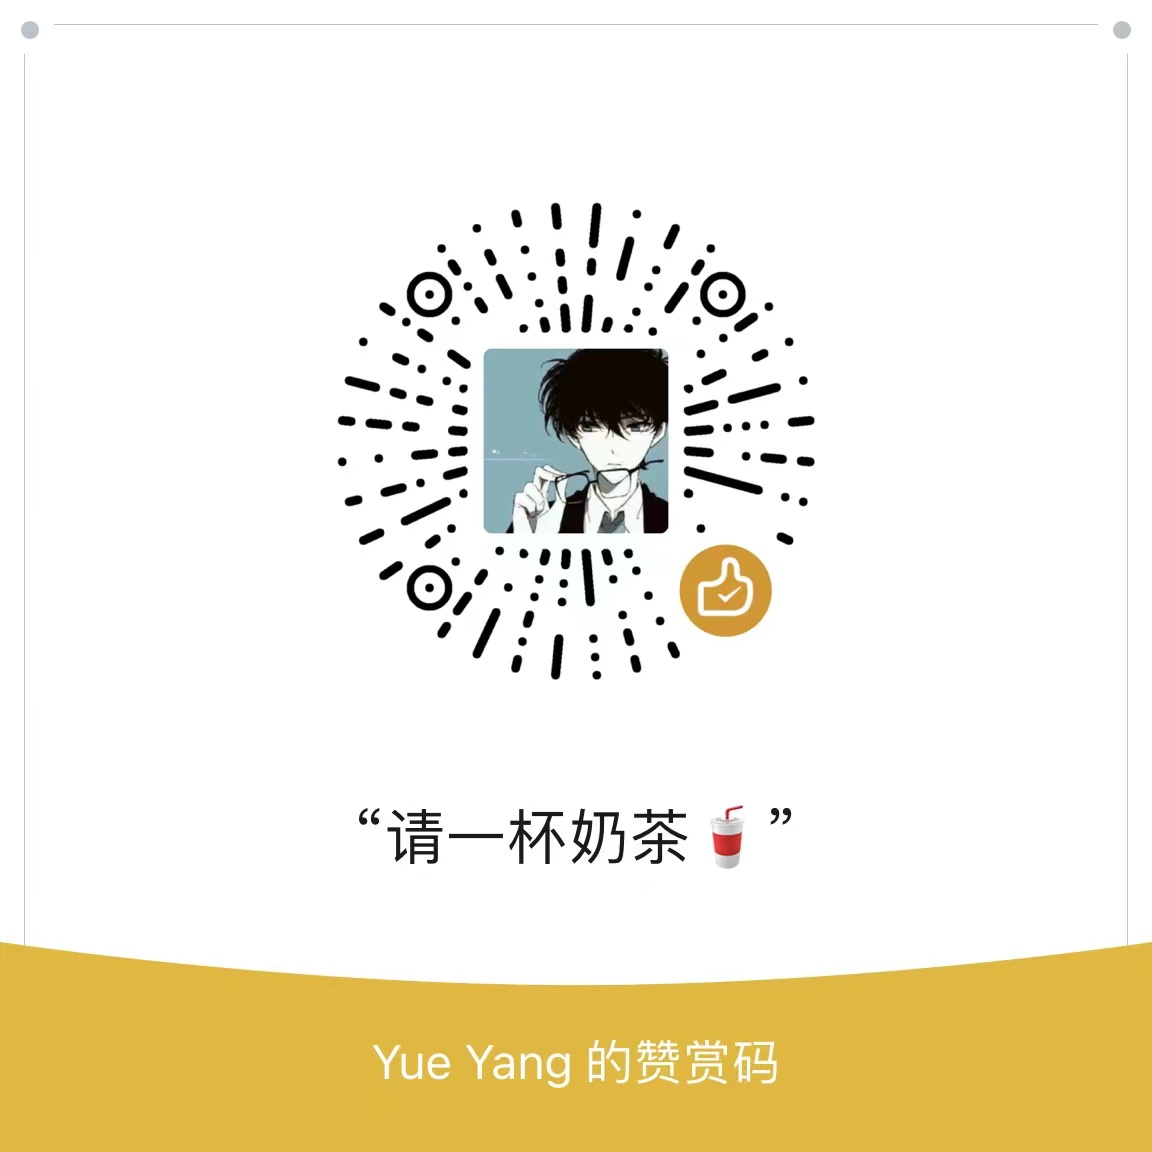
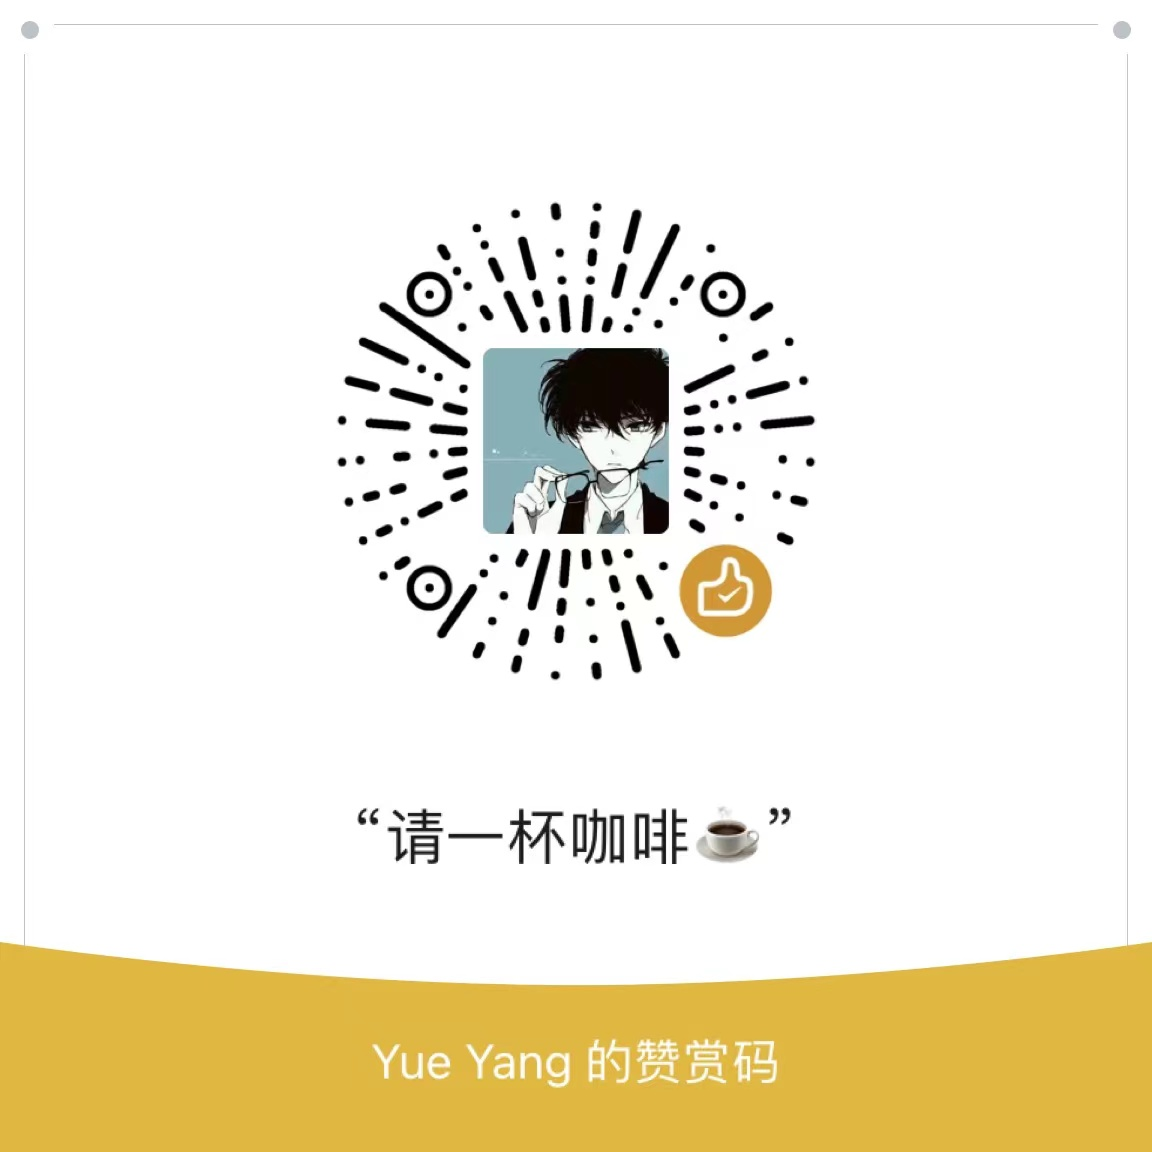
update wx-group5 qr-code

diff --git a/README-zh_CN.md b/README-zh_CN.md
@@ -209,7 +209,7 @@
 <img width="240" src="img/wx-group5.jpg" />
 </div>
 
-# 请作者喝一杯奶茶🥤
+# 请作者喝一杯咖啡 ☕
 
 <div align="center">
 <img width="240" src="img/support-wx-zan.jpg" />
